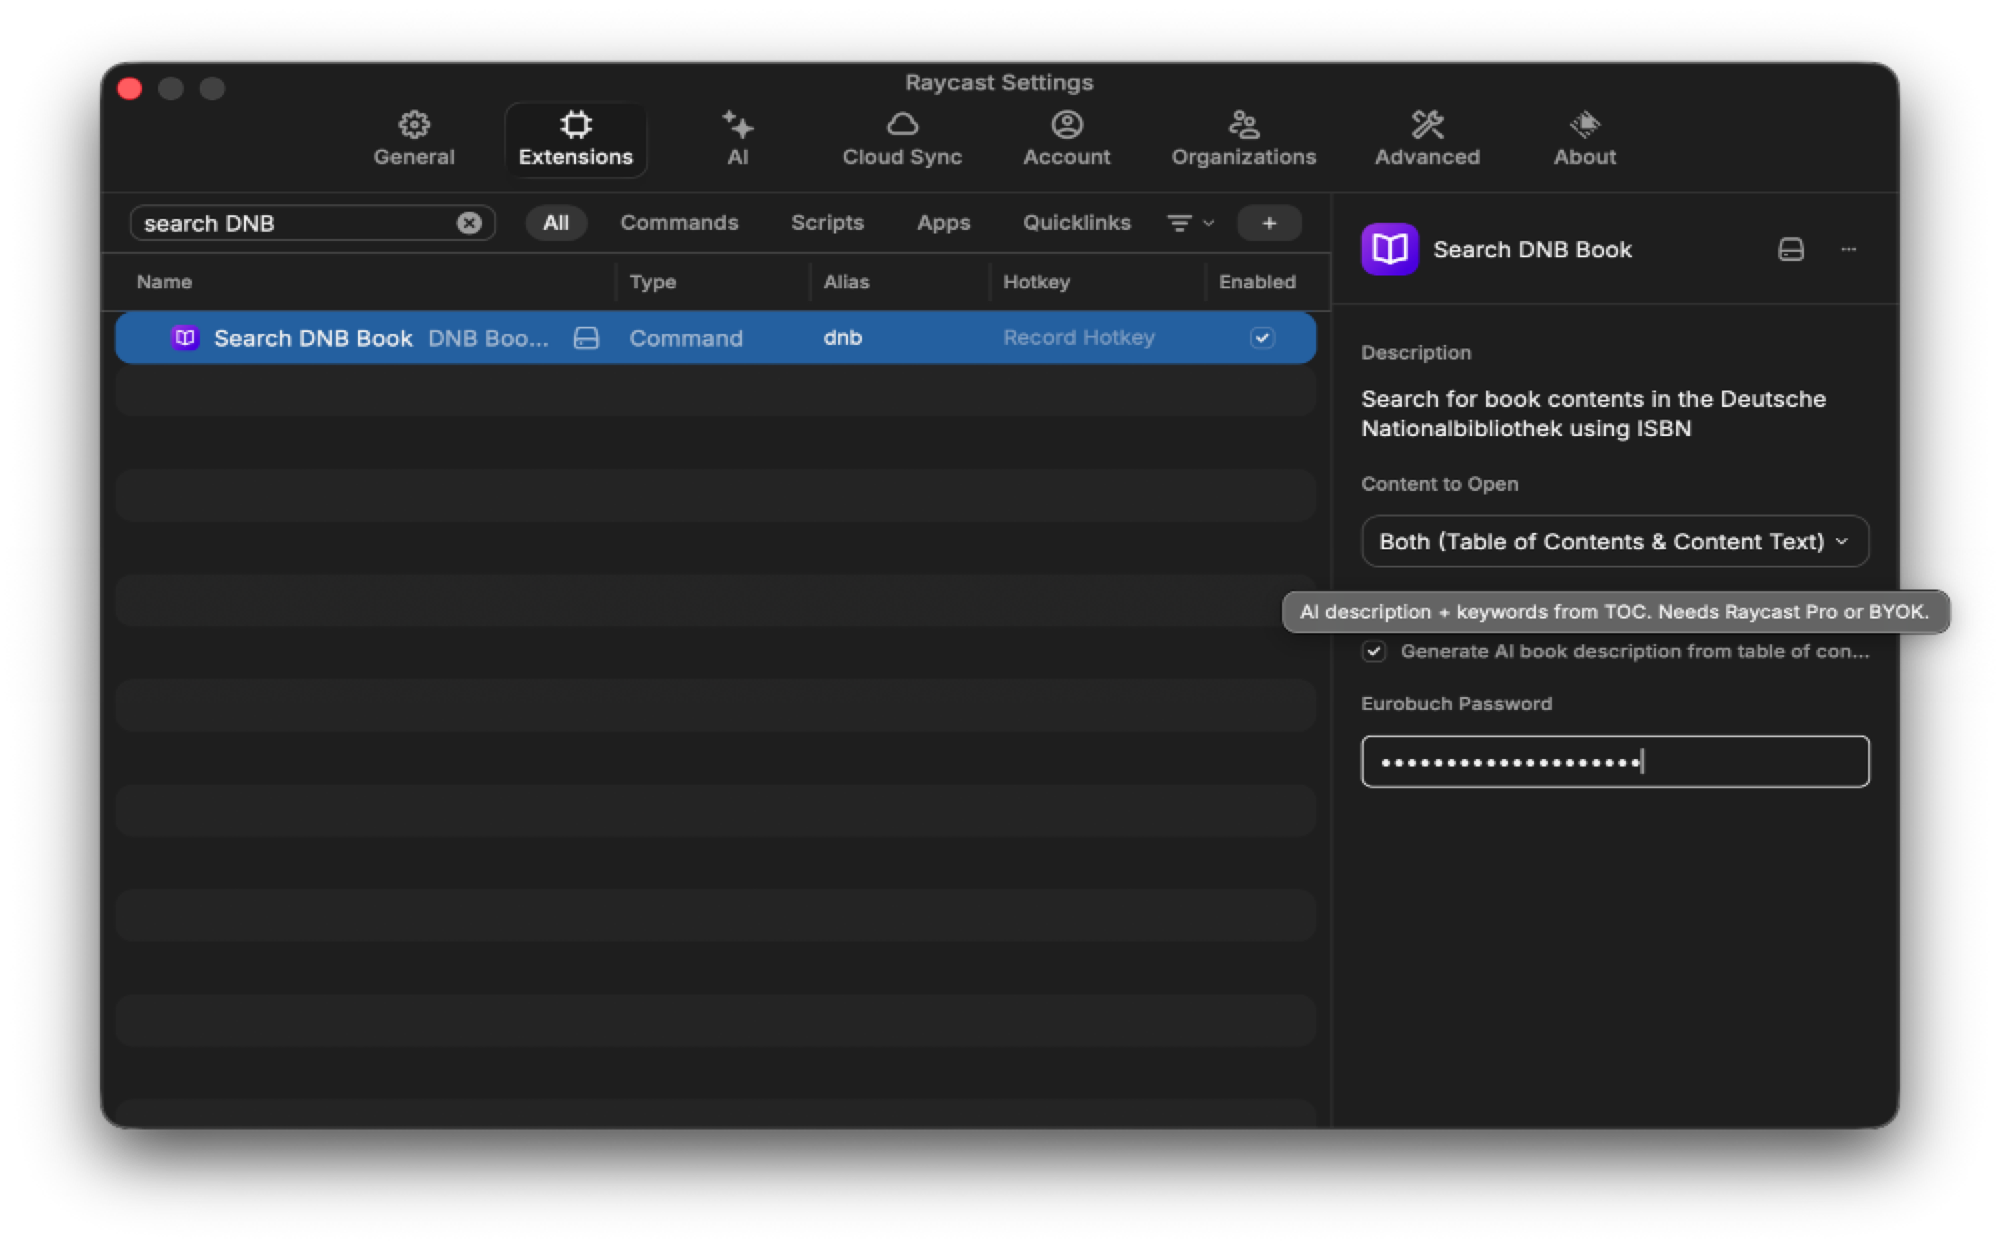
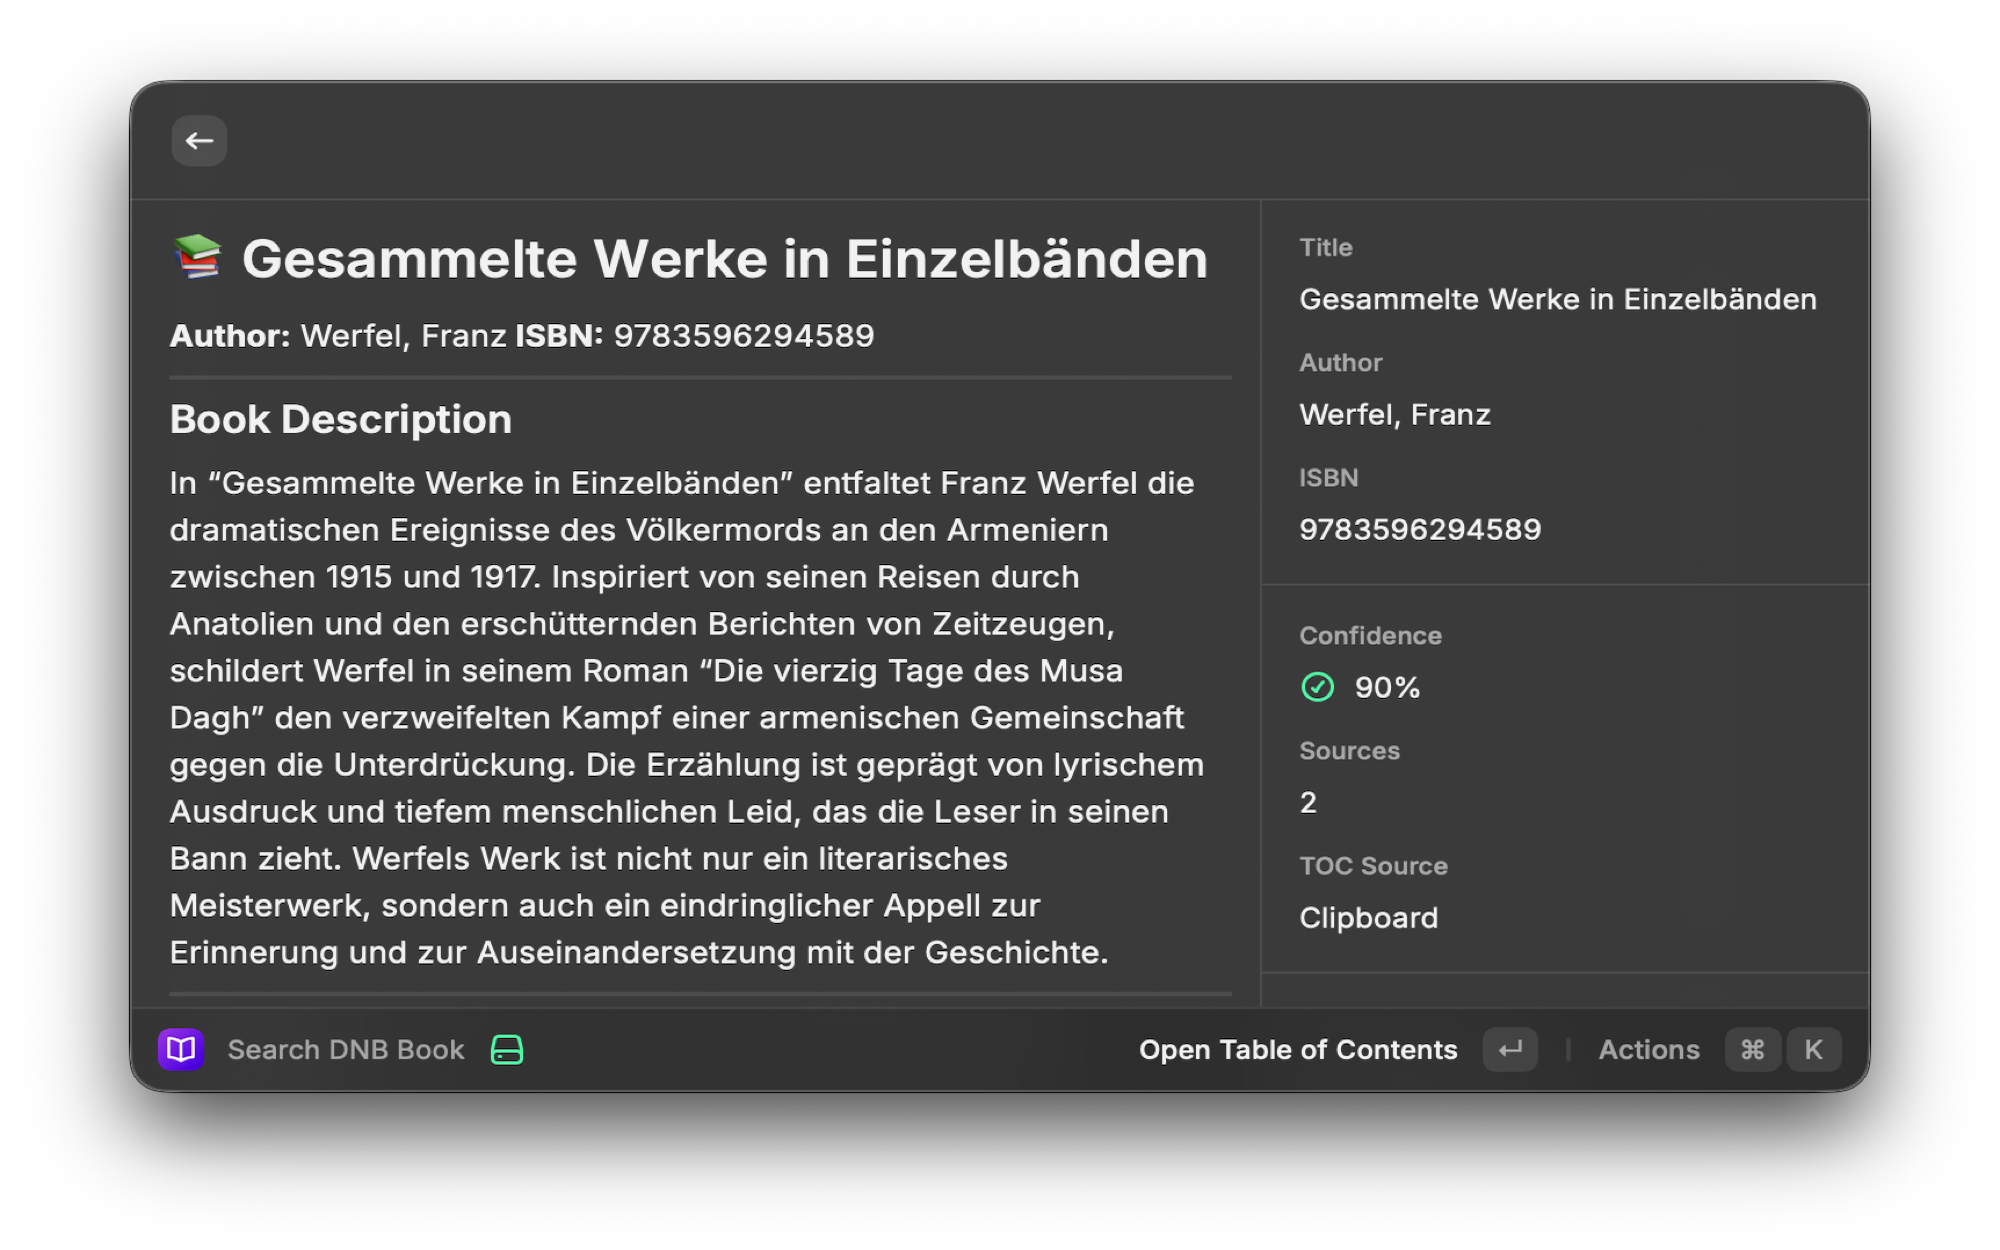
fix: remove Eurobuch, privacy fix, Greptile corrections

diff --git a/src/search-content.tsx b/src/search-content.tsx
@@ -45,7 +45,6 @@ const DNB_SRU_BASE_URL = "https://services.dnb.de/sru/dnb";
 const DNB_BASE_URL = "https://d-nb.info";
 const TOC_SUFFIX = "/04";
 const TEXT_SUFFIX = "/34";
-const EUROBUCH_PLATFORM = "106795";
 
 /**
  * Normalizes ISBN by removing all hyphens, spaces, and other separators
@@ -188,102 +187,6 @@ Antworte NUR mit dem JSON-Objekt, nichts anderes!`;
   }
 }
 
-// --- Eurobuch helpers (extracted from eurobuch-search-v2) ---
-
-const decodeXMLEntities = (str: string): string =>
-  str
-    .replace(/&amp;/g, "&")
-    .replace(/&quot;/g, '"')
-    .replace(/&apos;/g, "'")
-    .replace(/&lt;/g, "<")
-    .replace(/&gt;/g, ">");
-
-interface EurobuchBook {
-  title: string;
-  author: string;
-}
-
-const parseEurobuchXML = (xml: string): EurobuchBook[] => {
-  const books: EurobuchBook[] = [];
-  const bookRegex = /<Book\s+([^>]*?)\s*\/>/g;
-  let match: RegExpExecArray | null;
-
-  while ((match = bookRegex.exec(xml)) !== null) {
-    const captured = match[1];
-    const getAttribute = (name: string): string => {
-      const value = new RegExp(`${name}="([^"]*)"`, "i").exec(captured)?.[1] || "";
-      return decodeXMLEntities(value);
-    };
-    const book = { title: getAttribute("title"), author: getAttribute("author") };
-    if (book.title) books.push(book);
-  }
-
-  return books;
-};
-
-const convertISBN10to13 = (isbn10: string): string => {
-  const clean = isbn10.replace(/[-\s]/g, "");
-  if (clean.length !== 10) return isbn10;
-  const base = "978" + clean.substring(0, 9);
-  let sum = 0;
-  for (let i = 0; i < 12; i++) sum += parseInt(base[i]) * (i % 2 === 0 ? 1 : 3);
-  return base + ((10 - (sum % 10)) % 10);
-};
-
-/**
- * Fetches book info from Eurobuch API (requires platform credentials in preferences)
- */
-async function fetchEurobuchInfo(isbn: string): Promise<ExternalSource | null> {
-  const prefs = getPreferenceValues<Preferences.SearchContent>();
-
-  // Skip if no password configured
-  if (!prefs.eurobuchPassword) return null;
-
-  try {
-    const clean = isbn.replace(/[-\s]/g, "");
-    const searchIsbn = clean.length === 10 ? convertISBN10to13(clean) : clean;
-
-    let clientIP = "0.0.0.0";
-    try {
-      const ipRes = await fetch("https://api.ipify.org?format=text", { signal: AbortSignal.timeout(3000) });
-      clientIP = await ipRes.text();
-    } catch {
-      /* use fallback IP */
-    }
-
-    const params = new URLSearchParams({
-      platform: EUROBUCH_PLATFORM,
-      password: prefs.eurobuchPassword || "",
-      isbn: searchIsbn,
-      author: "",
-      title: "",
-      mediatype: "0",
-      clientip: clientIP,
-      format: "xml",
-      maxresults: "1",
-    });
-
-    const response = await fetch(`https://www.eurobuch.de/extreq/meta/extquery.php?${params}`, {
-      signal: AbortSignal.timeout(8000),
-    });
-    if (!response.ok) return null;
-
-    const books = parseEurobuchXML(await response.text());
-    if (books.length === 0) return null;
-
-    const book = books[0];
-    return {
-      name: "Eurobuch",
-      snippet: book.author ? `${book.title} / ${book.author}` : book.title,
-      url: `https://www.eurobuch.de/buch/isbn/${searchIsbn}.html`,
-      confidence: 90,
-    };
-  } catch (error) {
-    console.error("Eurobuch fetch failed:", error);
-    return null;
-  }
-}
-
 /**
  * Fetches book description from Google Books API
  */
@@ -391,11 +294,7 @@ async function generateVerifiedKlappentext(
   const tocQuality = await assessTOCQuality(clipboardToc);
 
   // 2. Always fetch all external sources when isbn is available
-  // Priority order: Eurobuch (90) → Google Books (85) → Wikipedia (75)
   if (isbn) {
-    const eurobuch = await fetchEurobuchInfo(isbn);
-    if (eurobuch) sources.push(eurobuch);
-
     const googleBooks = await fetchGoogleBooksInfo(isbn);
     if (googleBooks) sources.push(googleBooks);
 

diff --git a/README.md b/README.md
@@ -17,9 +17,8 @@ Because DNB's `/04` endpoint delivers scan-only PDFs (no extractable text), the 
 | Priority | Source | Confidence | What it provides |
 |---|---|---|---|
 | 1 | **Clipboard TOC** | assessed | Manually copied table of contents |
-| 2 | **Eurobuch** | 90% | Publisher data (requires API password) |
-| 3 | **Google Books** | 85% | Publisher description |
-| 4 | **Wikipedia (DE)** | 75% | Article extract |
+| 2 | **Google Books** | 85% | Publisher description |
+| 3 | **Wikipedia (DE)** | 75% | Article extract |
 
 All external sources are always queried when an ISBN is available. The confidence score reflects the quality and origin of the source material.
 
@@ -41,7 +40,6 @@ No API keys are required for basic usage (browser open mode).
 |---|---|---|
 | **Content to Open** | Table of Contents | What to open in the browser when generation is disabled: TOC, full text, or both |
 | **Generate Book Description** | Off | Enable AI-generated book description. Requires Raycast Pro or BYOK. |
-| **Eurobuch Password** | — | Eurobuch API password. When set, Eurobuch is queried as the highest-confidence source (90%). Leave empty to skip Eurobuch. |
 
 ## Workflow
 
